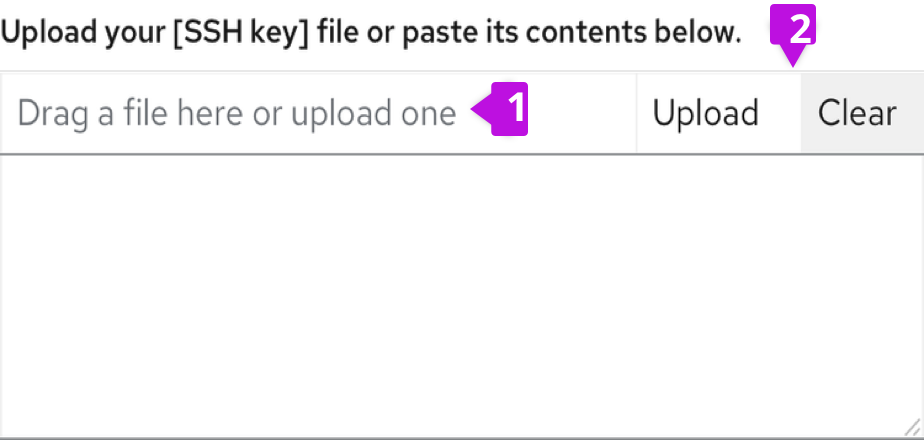
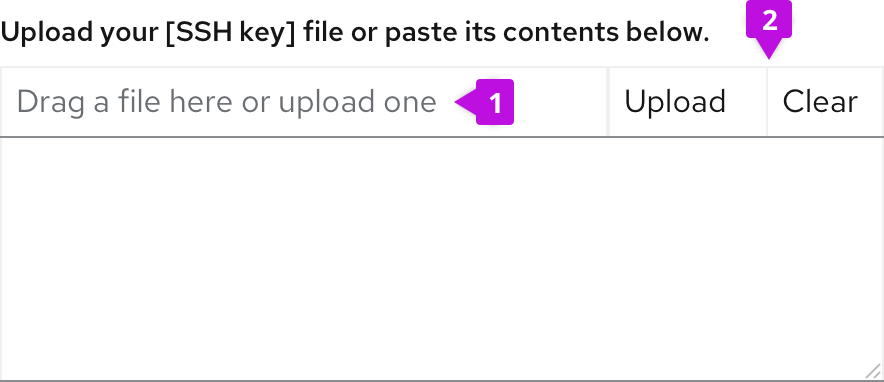
iss2616

diff --git a/packages/v4/src/content/design-guidelines/components/file-upload/file-upload.md b/packages/v4/src/content/design-guidelines/components/file-upload/file-upload.md
@@ -16,7 +16,7 @@ To upload, a user can either:
 
 
 ## Elements
-<img src="./img/Fileupload.png" alt="File Upload" width="462"/> 
+<img src="./img/Fileupload.png" alt="File Upload" width="442"/> 
 
 1. **Label**: Text to inform users about how they can interact with the component. The text should describe that you can either drag and drop a file into the drop zone, or click the button to upload a file.
 
